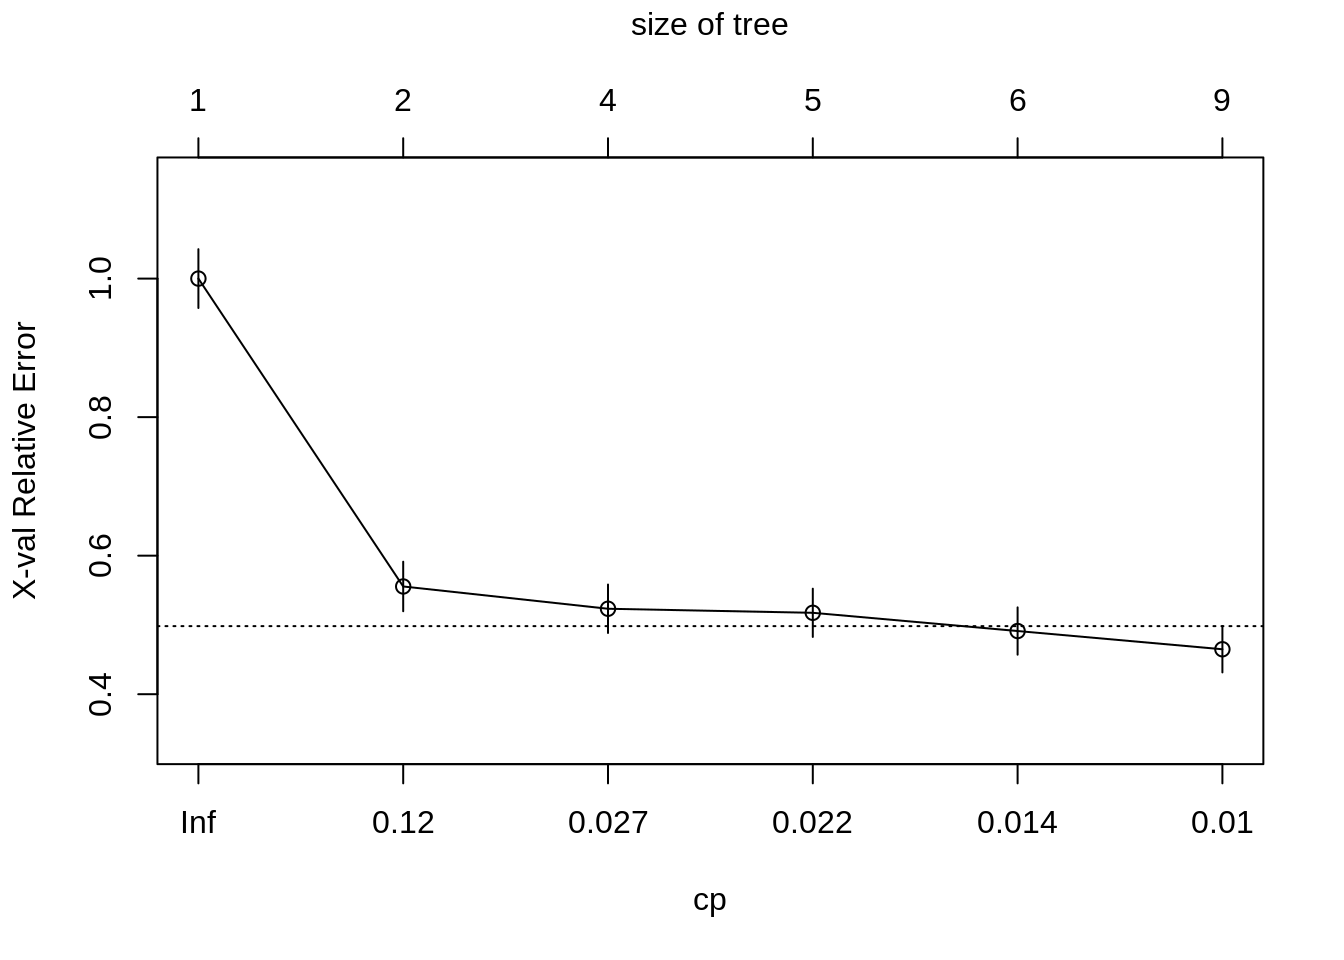
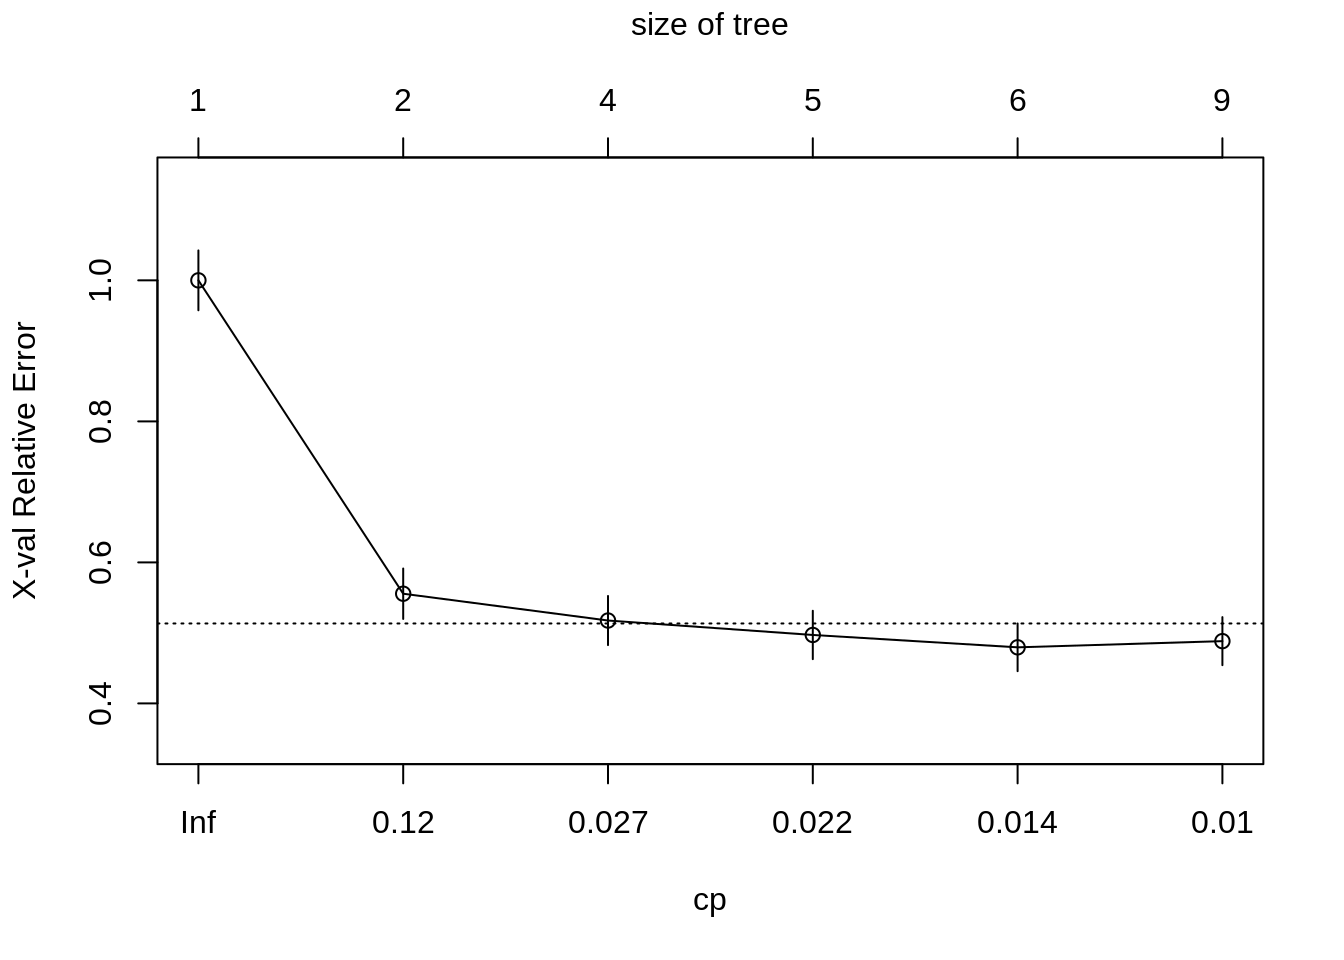
Deploy lebebr01/stat_thinking to github.com/lebebr01/stat_thinking.git:master

diff --git a/docs/classification.html b/docs/classification.html
@@ -324,10 +324,10 @@ titanic &lt;-<span class="st"> </span><span class="kw">bind_rows</span>(titanic_
 ##         CP nsplit rel error  xerror     xstd
 ## 1 0.444444      0   1.00000 1.00000 0.042446
 ## 2 0.030702      1   0.55556 0.55556 0.035750
-## 3 0.023392      3   0.49415 0.52339 0.034970
-## 4 0.020468      4   0.47076 0.51754 0.034823
-## 5 0.010234      5   0.45029 0.49123 0.034140
-## 6 0.010000      8   0.41813 0.46491 0.033419</code></pre>
+## 3 0.023392      3   0.49415 0.51754 0.034823
+## 4 0.020468      4   0.47076 0.49708 0.034295
+## 5 0.010234      5   0.45029 0.47953 0.033824
+## 6 0.010000      8   0.41813 0.48830 0.034061</code></pre>
 <div class="sourceCode"><pre class="sourceCode r"><code class="sourceCode r"><span class="kw">plotcp</span>(class_tree)</code></pre></div>
 <p><img src="05-classification_files/figure-html/unnamed-chunk-6-1.png" width="672" /></p>
 <div class="sourceCode"><pre class="sourceCode r"><code class="sourceCode r">prune_class_tree &lt;-<span class="st"> </span><span class="kw">prune</span>(class_tree, <span class="dt">cp =</span> .<span class="dv">02</span>)

diff --git a/docs/05-classification.md b/docs/05-classification.md
@@ -249,10 +249,10 @@ printcp(class_tree)
 ##         CP nsplit rel error  xerror     xstd
 ## 1 0.444444      0   1.00000 1.00000 0.042446
 ## 2 0.030702      1   0.55556 0.55556 0.035750
-## 3 0.023392      3   0.49415 0.52339 0.034970
-## 4 0.020468      4   0.47076 0.51754 0.034823
-## 5 0.010234      5   0.45029 0.49123 0.034140
-## 6 0.010000      8   0.41813 0.46491 0.033419
+## 3 0.023392      3   0.49415 0.51754 0.034823
+## 4 0.020468      4   0.47076 0.49708 0.034295
+## 5 0.010234      5   0.45029 0.47953 0.033824
+## 6 0.010000      8   0.41813 0.48830 0.034061
 ```
 
 ```r
